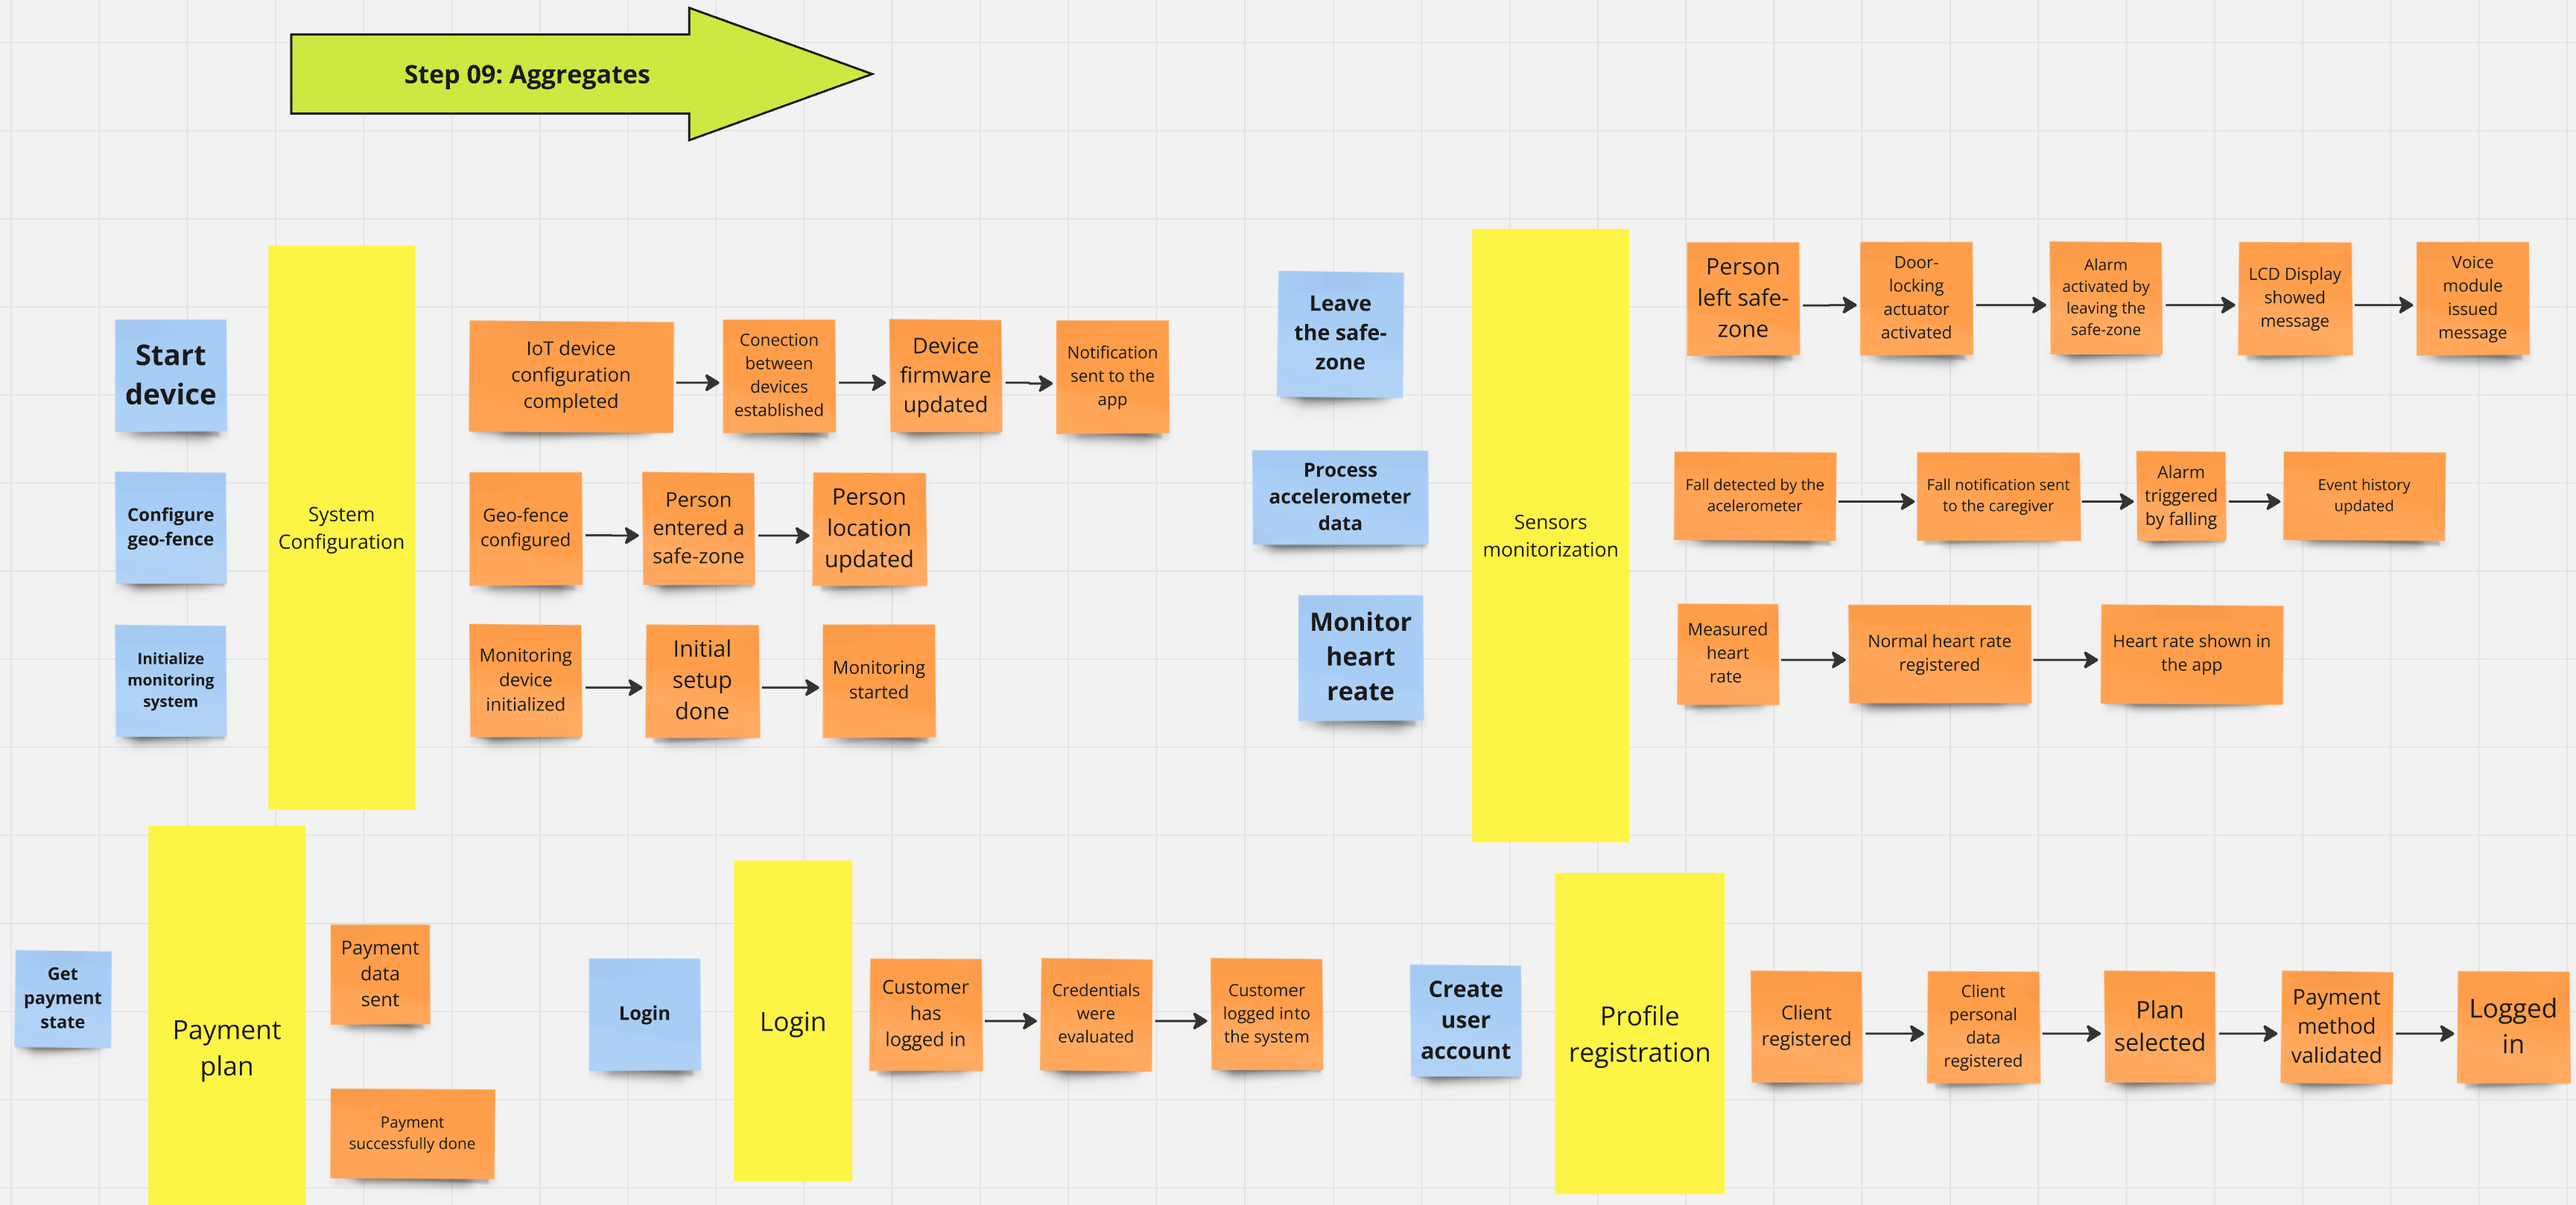
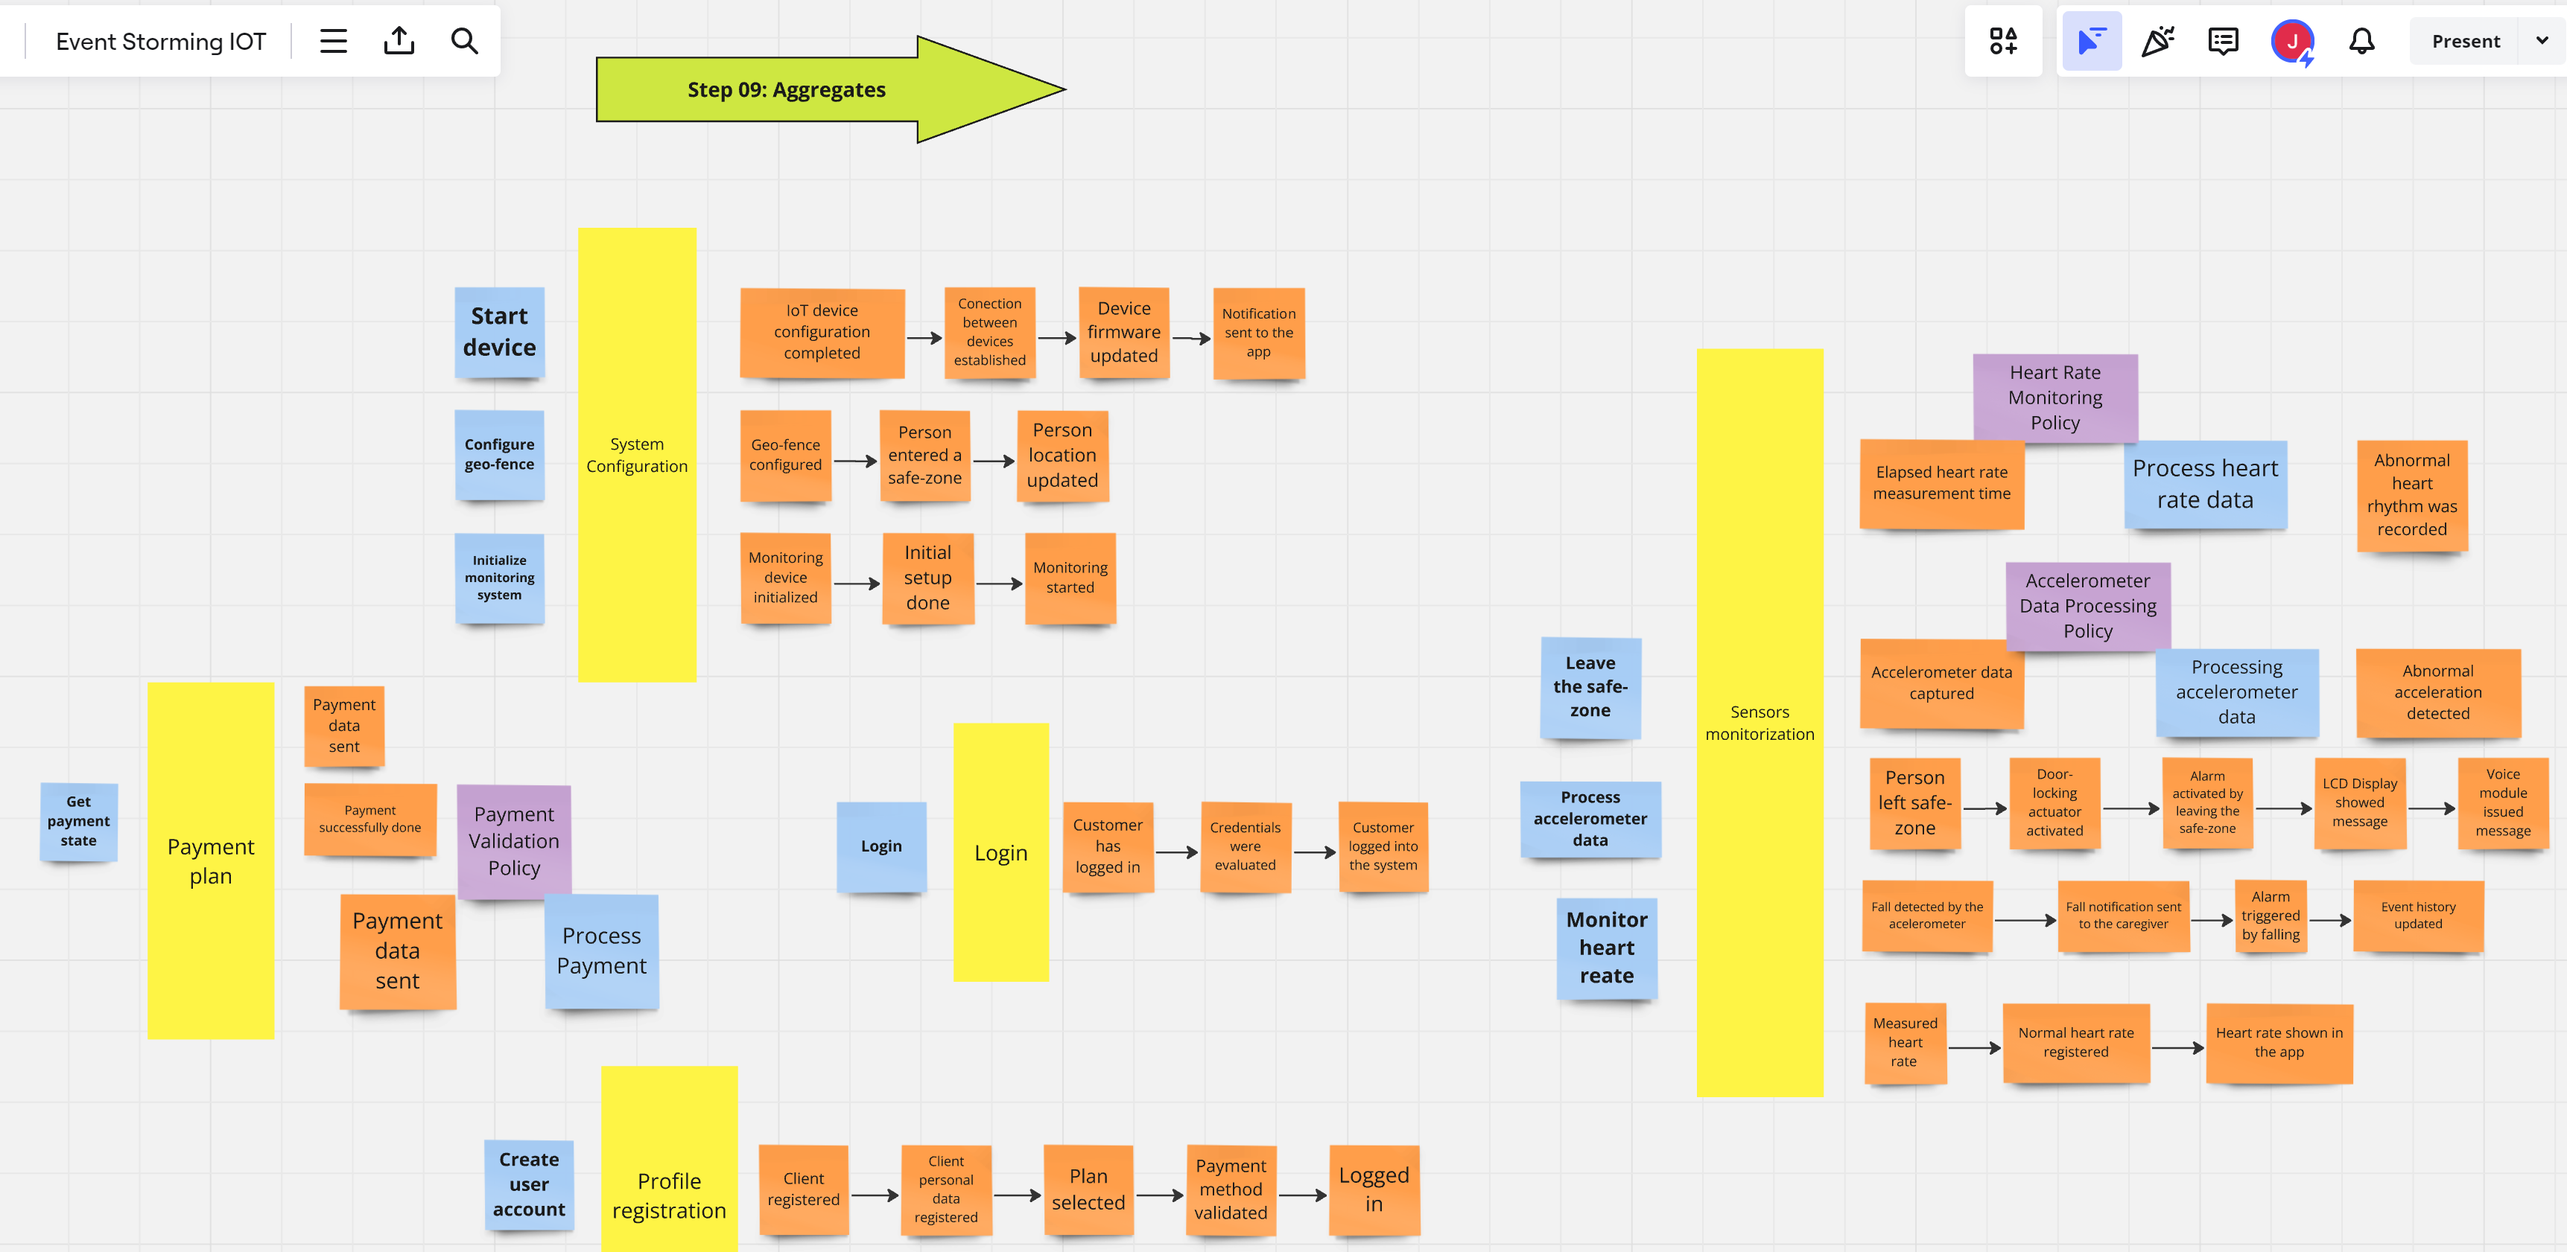
feat: update candidate context discovery and add anexos

diff --git a/README.md b/README.md
@@ -1310,6 +1310,16 @@ GuardianArea implementará estrategias específicas para destacar en el mercado,
 ## 4.1. Strategic-Level Domain-Driven Design
 ### 4.1.1. Event Storming
 
+EventStorming es una metodología colaborativa e iterativa de modelado que permite explorar a fondo problemas complejos y de gran magnitud, facilitando la identificación de numerosos detalles y posibles desafíos.
+
+<div style="text-align: center;">
+    <img src="./images/chapter-04/10-step-event.png" alt="Event Storming" style="max-width: 800px; width: 95%">
+</div>
+
+**Link Miro:** [Event Storming](https://miro.com/app/board/uXjVKk2Q56U=/?share_link_id=145421068729)
+
+#### 4.1.1.1. Candidate Context Discovery
+
 Durante nuestra sesión de event storming, llevamos a cabo una reunión en la que discutimos diversas ideas. A lo largo de la sesión, identificamos conceptos clave para nuestra aplicación y comenzamos a desarrollar las primeras versiones.
 
 A continuación, presentaremos el desarrollo de nuestro event storming, realizado con la herramienta Miro. En esta sesión participaron los cinco integrantes de Digital Dart, quienes contribuyeron con sus ideas y perspectivas para el avance del proyecto.
@@ -1379,7 +1389,7 @@ Definimos y diseñamos los agregados para cada contexto del sistema, asegurando 
 </div>
 En esta etapa final, se identifican y definen los contextos delimitados, agrupando los agregados que están estrechamente relacionados o que interactúan entre sí mediante políticas. Estos contextos delimitados ayudan a organizar y gestionar las distintas áreas del sistema.
 
-**Link Miro:** [Event Storming]()
+**Link Miro:** [Event Storming](https://miro.com/app/board/uXjVKk2Q56U=/?share_link_id=145421068729)
 
 ## 4.2. Tactical-Level Domain-Driven Design
 
@@ -1503,3 +1513,5 @@ En este bounded context se gestiona los pagos dentro del sistema.
 
 
 
+### ANEXOS
+- Link Event Storming: https://miro.com/app/board/uXjVKk2Q56U=/?share_link_id=145421068729
